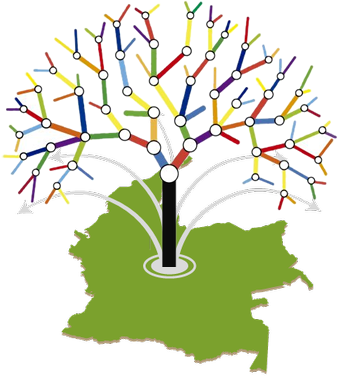
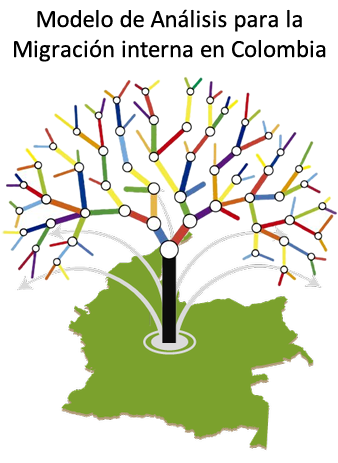
Update documentation

Changed region(s): [[0.0, 0.0, 1.0, 0.8777], [0.1775, 0.8484, 0.7988, 0.9947]]

diff --git a/Modelos_de_estudio.html b/Modelos_de_estudio.html
@@ -385,9 +385,9 @@ document.write(`
   <section class="tex2jax_ignore mathjax_ignore" id="modelos-analizados-en-clase">
 <h1>Modelos analizados en clase<a class="headerlink" href="#modelos-analizados-en-clase" title="Link to this heading">#</a></h1>
 <p>A continuación, se realiza una breve descripción de cómo se puede abordar desde diferentes modelos del Machile Learning el tema de estudio: Migración Interna en Colombia.</p>
-<p><strong>k-vecinos más cercanos (k-NN)</strong>
+<p><strong>k-vecinos más cercanos (k-NN):</strong>
 Puede aplicarse al estudio de la migración interna en Colombia como una herramienta de clasificación o predicción basada en similitudes entre regiones, individuos o patrones migratorios (Sánchez Poveda, 2023). Este modelo permite identificar zonas del país con características socioeconómicas, demográficas o geográficas similares que puedan influir en los flujos migratorios. Por ejemplo, al considerar variables como el desempleo, el nivel educativo, el acceso a servicios públicos y la violencia, k-NN puede predecir la probabilidad de que una persona se desplace de una región a otra. Así, se pueden identificar regiones emisoras o receptoras de migrantes según su similitud con otras zonas donde ya se ha observado un comportamiento migratorio específico. Esta técnica es útil tanto para el análisis exploratorio como para la toma de decisiones en políticas públicas, al proporcionar una visión basada en datos sobre las dinámicas migratorias internas (IBM, 2017).</p>
-<p><strong>Regresión Ridge</strong>
+<p><strong>Regresión Ridge:</strong>
 Es una técnica de aprendizaje supervisado que permite modelar relaciones lineales entre múltiples variables independientes y una variable dependiente, aplicando una penalización para reducir la multicolinealidad y el sobreajuste. En el contexto de la migración interna en Colombia, esta técnica puede emplearse para predecir los flujos migratorios entre departamentos o municipios a partir de variables como el ingreso promedio, la tasa de desempleo, el acceso a servicios básicos, la presencia de violencia o conflictos, y el crecimiento poblacional. La regresión Ridge permite incorporar una gran cantidad de variables explicativas sin perder precisión, lo cual es ideal cuando hay correlación entre factores sociales y económicos. Este modelo proporciona estimaciones más estables y robustas, ayudando a identificar los principales factores que impulsan los desplazamientos internos, lo cual es clave para el diseño de políticas públicas que respondan a las causas estructurales de la migración interna (Del Valle Moreno et al., 2012).</p>
 <p><strong>Regresión Lasso:</strong>
 Least Absolute Shrinkage and Selection Operator, es un modelo estadístico que permite la selección de variables y la regularización en problemas de regresión, favoreciendo soluciones más simples y comprensibles. En el estudio de la migración interna en Colombia, Lasso puede ser utilizado para identificar los factores más relevantes que influyen en los desplazamientos poblacionales entre regiones, tales como el desempleo, el nivel educativo, la violencia, el acceso a salud y servicios públicos, o el desarrollo económico local. Al penalizar la magnitud de los coeficientes, este modelo tiende a reducir a cero los coeficientes de variables menos significativas, facilitando así la interpretación y priorización de políticas públicas. Su aplicación es especialmente útil cuando se trabaja con bases de datos amplias y con muchas variables correlacionadas, permitiendo construir modelos predictivos robustos y explicativos sobre los patrones migratorios internos en el país (Pacheco-Robles et al., 2023).</p>
@@ -401,11 +401,11 @@ Extreme Gradient Boosting, es un modelo de aprendizaje automático basado en ár
 SVM, por sus siglas en inglés son modelos de aprendizaje supervisado que se utilizan para clasificación y regresión, especialmente eficaces en problemas con alta dimensionalidad y datos no lineales. En el estudio de la migración interna en Colombia, SVM puede aplicarse para clasificar individuos o zonas geográficas según su probabilidad de experimentar migración, ya sea como regiones de origen o destino. Utilizando variables como el nivel de pobreza, acceso a servicios básicos, violencia, oportunidades laborales y educación, el modelo puede encontrar una frontera óptima que separe a los grupos migrantes de los no migrantes. Además, al emplear funciones kernel, SVM puede manejar relaciones complejas entre los datos, capturando patrones no lineales en los factores que impulsan los movimientos poblacionales. Esta capacidad predictiva puede ser clave para orientar políticas públicas y anticipar dinámicas migratorias internas con mayor precisión (García Díaz &amp; Lozano Martínez, 2006).</p>
 <p><strong>Redes Neuronales:</strong>
 Las redes neuronales artificiales son modelos inspirados en el funcionamiento del cerebro humano que permiten identificar patrones complejos y no lineales en grandes volúmenes de datos. En el contexto de la migración interna en Colombia, estas redes pueden utilizarse para predecir los flujos migratorios entre regiones, basándose en múltiples variables como la tasa de desempleo, violencia, calidad de vida, educación, acceso a servicios, entre otras. Gracias a su capacidad de aprendizaje profundo, las redes neuronales pueden descubrir interacciones ocultas entre factores sociales y económicos que influyen en las decisiones migratorias. Además, se adaptan bien a datos con ruido o faltantes y permiten generar modelos altamente predictivos. Su aplicación resulta especialmente útil cuando se dispone de bases de datos complejas y extensas, como censos o registros administrativos, y puede complementar el análisis de políticas públicas enfocadas en la gestión de la movilidad interna y la reducción de desigualdades regionales(Tablada &amp; Torres, 2021).</p>
-<p><strong>Deep Learning.</strong>
+<p><strong>Deep Learning:</strong>
 El aprendizaje profundo es una subárea del aprendizaje automático que utiliza redes neuronales con múltiples capas para modelar relaciones complejas en grandes volúmenes de datos. En el estudio de la migración interna en Colombia, este enfoque puede ser clave para analizar dinámicas migratorias con alto nivel de precisión, al procesar datos masivos como censos, registros administrativos, encuestas socioeconómicas o incluso datos satelitales. Deep Learning permite identificar patrones ocultos en variables como ingresos, empleo, violencia, acceso a educación y salud, y condiciones geográficas, ofreciendo predicciones sobre los flujos migratorios y clasificaciones de zonas de origen y destino. Su capacidad para manejar datos heterogéneos y no estructurados, como texto o imágenes, abre nuevas posibilidades para integrar fuentes diversas, como redes sociales o noticias locales, en el análisis migratorio. De esta manera, contribuye a una comprensión más profunda del fenómeno y al diseño de políticas públicas más informadas y eficaces (Janiesch et al., 2021).
  
-<strong>Referencias bibliográficas</strong>
-Del Valle Moreno, J., Walkiria, C., &amp; Bustillo, G. (2012). La Multicolinealidad en modelos de Regresión Lineal Múltiple. In Calero (Vol. 21, Issue 4).</p>
+<strong>Referencias bibliográficas:</strong></p>
+<p>Del Valle Moreno, J., Walkiria, C., &amp; Bustillo, G. (2012). La Multicolinealidad en modelos de Regresión Lineal Múltiple. In Calero (Vol. 21, Issue 4).</p>
 <p>García Díaz, E. E., &amp; Lozano Martínez, F. (2006). Máquinas de vectores de soporte. Revista de Ingeniería, 24.</p>
 <p>IBM. (2017). ¿Qué es el algoritmo de k vecinos más cercanos? | IBM. Ibm.</p>
 <p>Janiesch, C., Zschech, P., &amp; Heinrich, K. (2021). Machine learning and deep learning. Electronic Markets, 31(3). <a class="reference external" href="https://doi.org/10.1007/s12525-021-00475-2">https://doi.org/10.1007/s12525-021-00475-2</a></p>

diff --git a/_sources/Modelos_de_estudio.md b/_sources/Modelos_de_estudio.md
@@ -2,10 +2,10 @@
 
 A continuación, se realiza una breve descripción de cómo se puede abordar desde diferentes modelos del Machile Learning el tema de estudio: Migración Interna en Colombia.
 
-**k-vecinos más cercanos (k-NN)**
+**k-vecinos más cercanos (k-NN):**
 Puede aplicarse al estudio de la migración interna en Colombia como una herramienta de clasificación o predicción basada en similitudes entre regiones, individuos o patrones migratorios (Sánchez Poveda, 2023). Este modelo permite identificar zonas del país con características socioeconómicas, demográficas o geográficas similares que puedan influir en los flujos migratorios. Por ejemplo, al considerar variables como el desempleo, el nivel educativo, el acceso a servicios públicos y la violencia, k-NN puede predecir la probabilidad de que una persona se desplace de una región a otra. Así, se pueden identificar regiones emisoras o receptoras de migrantes según su similitud con otras zonas donde ya se ha observado un comportamiento migratorio específico. Esta técnica es útil tanto para el análisis exploratorio como para la toma de decisiones en políticas públicas, al proporcionar una visión basada en datos sobre las dinámicas migratorias internas (IBM, 2017).
 
-**Regresión Ridge**
+**Regresión Ridge:**
 Es una técnica de aprendizaje supervisado que permite modelar relaciones lineales entre múltiples variables independientes y una variable dependiente, aplicando una penalización para reducir la multicolinealidad y el sobreajuste. En el contexto de la migración interna en Colombia, esta técnica puede emplearse para predecir los flujos migratorios entre departamentos o municipios a partir de variables como el ingreso promedio, la tasa de desempleo, el acceso a servicios básicos, la presencia de violencia o conflictos, y el crecimiento poblacional. La regresión Ridge permite incorporar una gran cantidad de variables explicativas sin perder precisión, lo cual es ideal cuando hay correlación entre factores sociales y económicos. Este modelo proporciona estimaciones más estables y robustas, ayudando a identificar los principales factores que impulsan los desplazamientos internos, lo cual es clave para el diseño de políticas públicas que respondan a las causas estructurales de la migración interna (Del Valle Moreno et al., 2012).
 
 **Regresión Lasso:**
@@ -27,10 +27,11 @@ SVM, por sus siglas en inglés son modelos de aprendizaje supervisado que se uti
 **Redes Neuronales:**
 Las redes neuronales artificiales son modelos inspirados en el funcionamiento del cerebro humano que permiten identificar patrones complejos y no lineales en grandes volúmenes de datos. En el contexto de la migración interna en Colombia, estas redes pueden utilizarse para predecir los flujos migratorios entre regiones, basándose en múltiples variables como la tasa de desempleo, violencia, calidad de vida, educación, acceso a servicios, entre otras. Gracias a su capacidad de aprendizaje profundo, las redes neuronales pueden descubrir interacciones ocultas entre factores sociales y económicos que influyen en las decisiones migratorias. Además, se adaptan bien a datos con ruido o faltantes y permiten generar modelos altamente predictivos. Su aplicación resulta especialmente útil cuando se dispone de bases de datos complejas y extensas, como censos o registros administrativos, y puede complementar el análisis de políticas públicas enfocadas en la gestión de la movilidad interna y la reducción de desigualdades regionales(Tablada & Torres, 2021).
 
-**Deep Learning.**
+**Deep Learning:**
 El aprendizaje profundo es una subárea del aprendizaje automático que utiliza redes neuronales con múltiples capas para modelar relaciones complejas en grandes volúmenes de datos. En el estudio de la migración interna en Colombia, este enfoque puede ser clave para analizar dinámicas migratorias con alto nivel de precisión, al procesar datos masivos como censos, registros administrativos, encuestas socioeconómicas o incluso datos satelitales. Deep Learning permite identificar patrones ocultos en variables como ingresos, empleo, violencia, acceso a educación y salud, y condiciones geográficas, ofreciendo predicciones sobre los flujos migratorios y clasificaciones de zonas de origen y destino. Su capacidad para manejar datos heterogéneos y no estructurados, como texto o imágenes, abre nuevas posibilidades para integrar fuentes diversas, como redes sociales o noticias locales, en el análisis migratorio. De esta manera, contribuye a una comprensión más profunda del fenómeno y al diseño de políticas públicas más informadas y eficaces (Janiesch et al., 2021).
  
-**Referencias bibliográficas**
+**Referencias bibliográficas:**
+
 Del Valle Moreno, J., Walkiria, C., & Bustillo, G. (2012). La Multicolinealidad en modelos de Regresión Lineal Múltiple. In Calero (Vol. 21, Issue 4).
 
 García Díaz, E. E., & Lozano Martínez, F. (2006). Máquinas de vectores de soporte. Revista de Ingeniería, 24.
